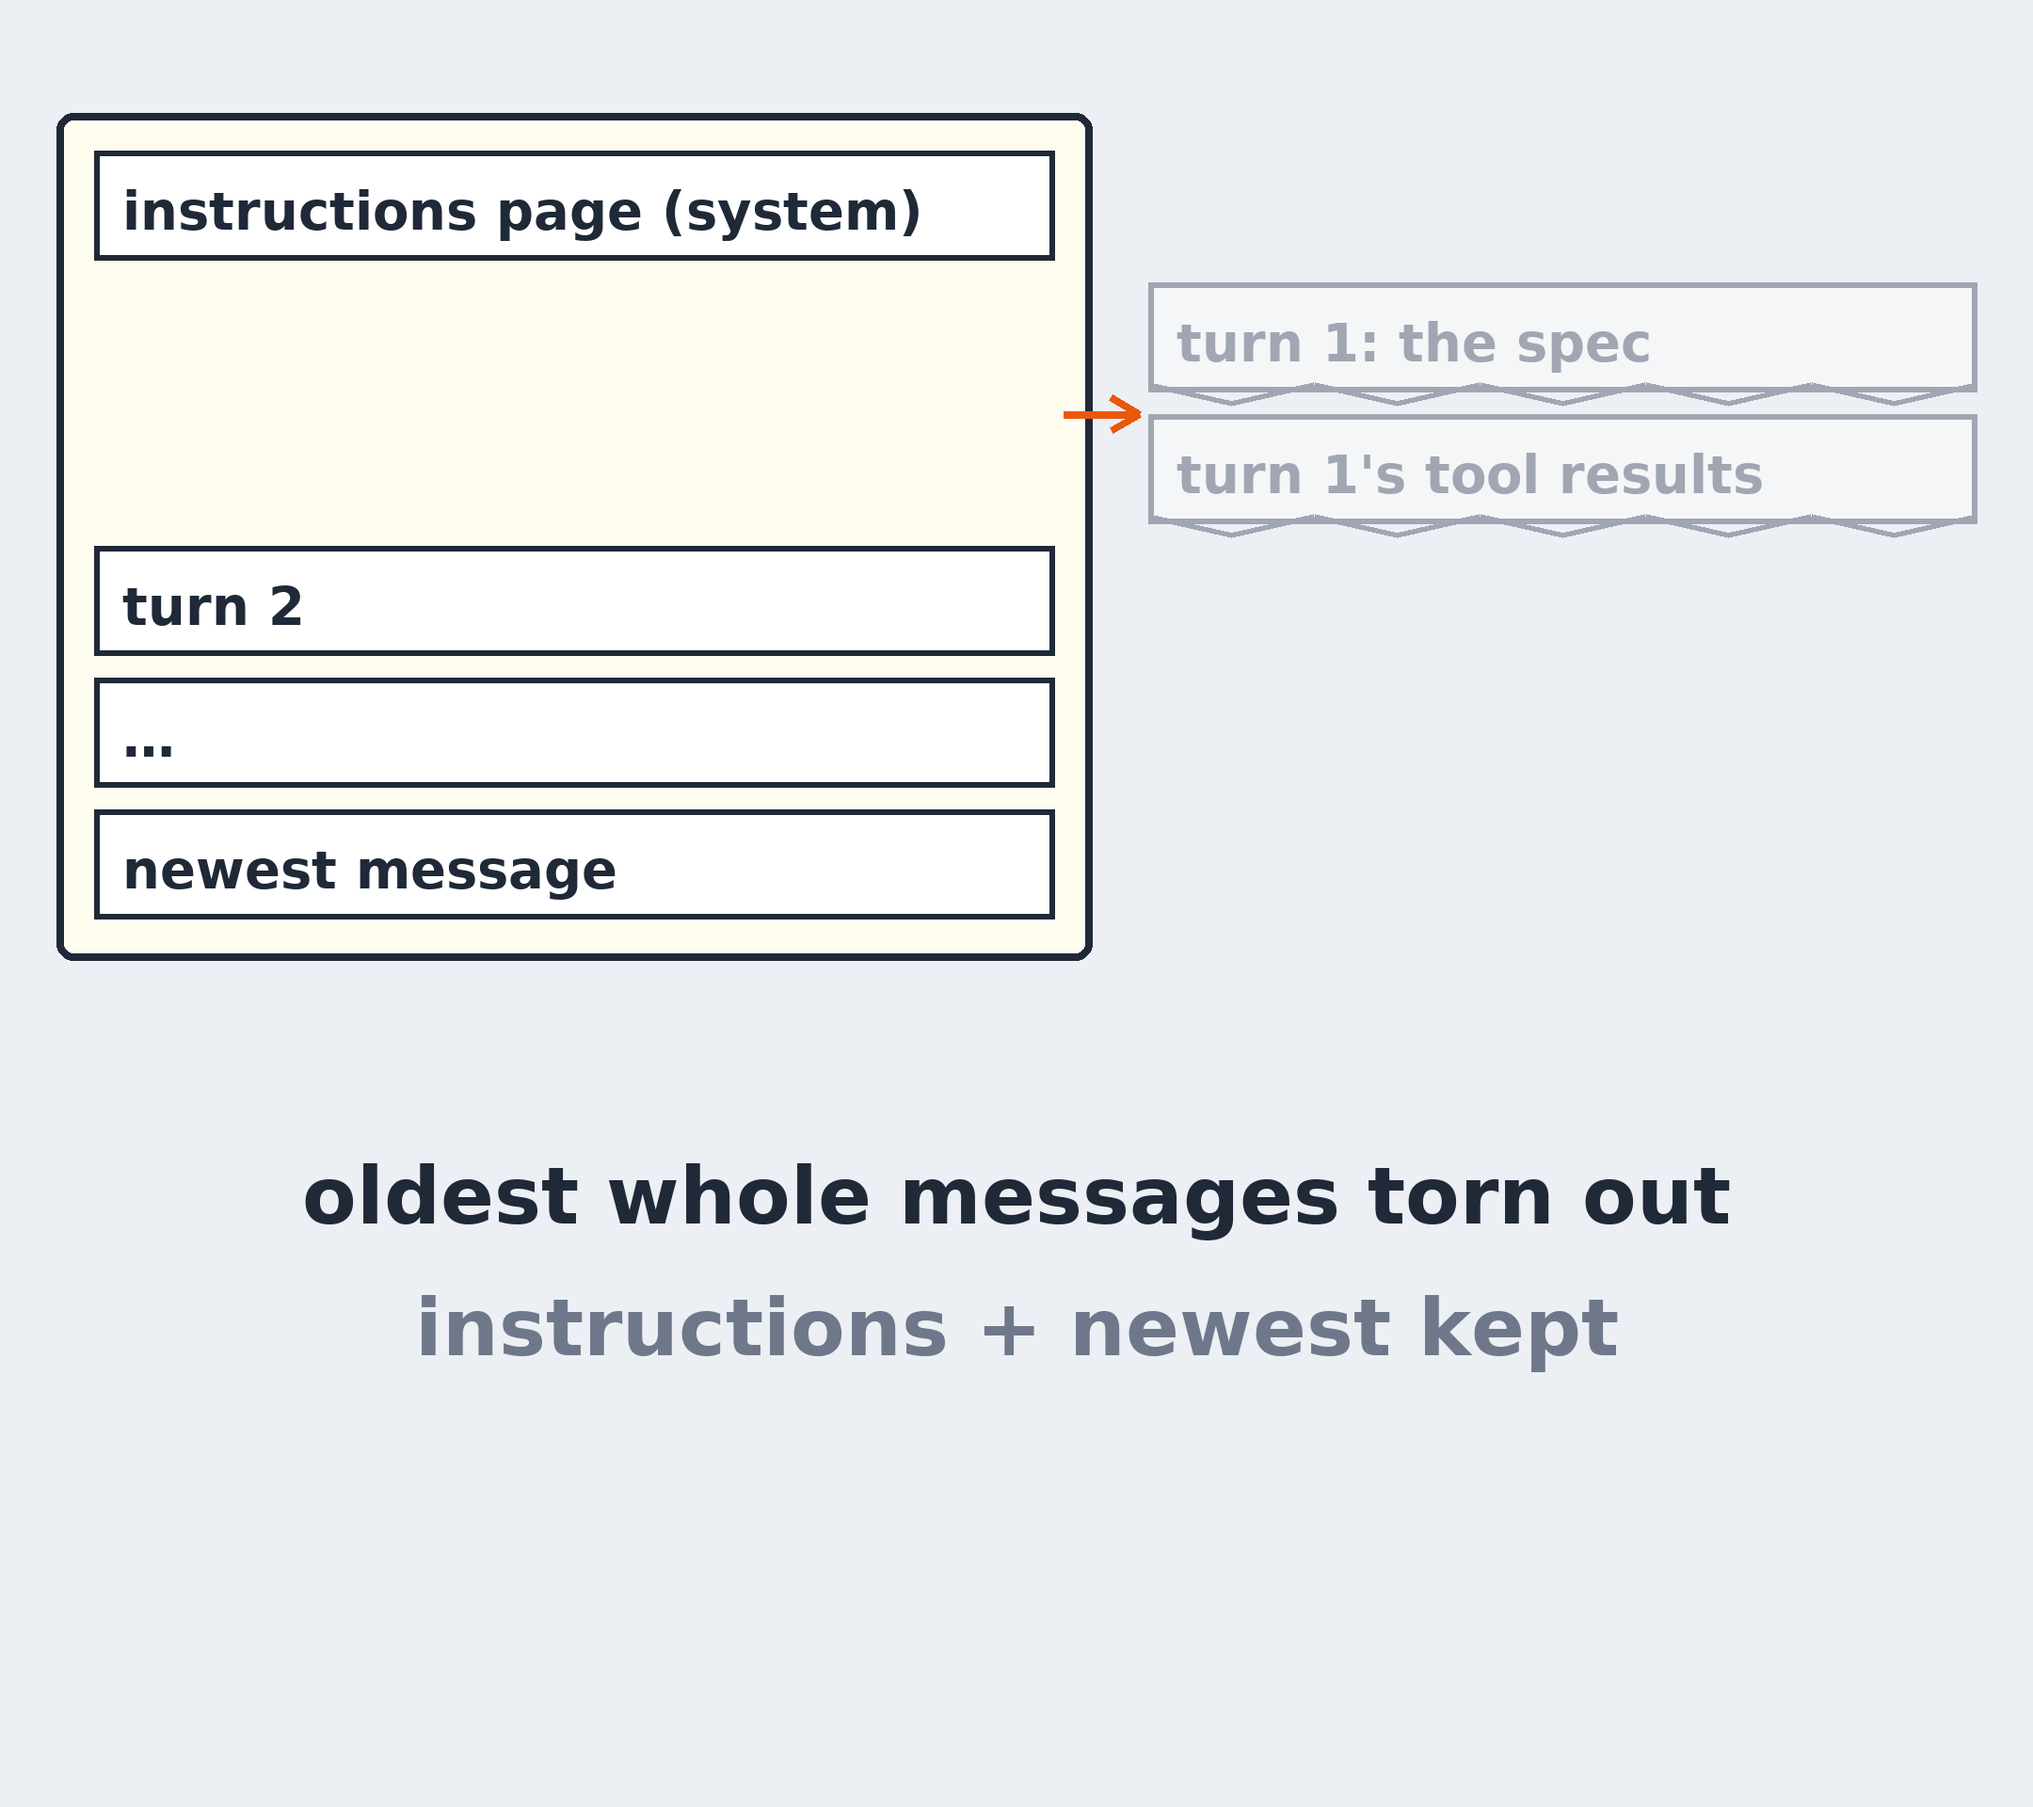
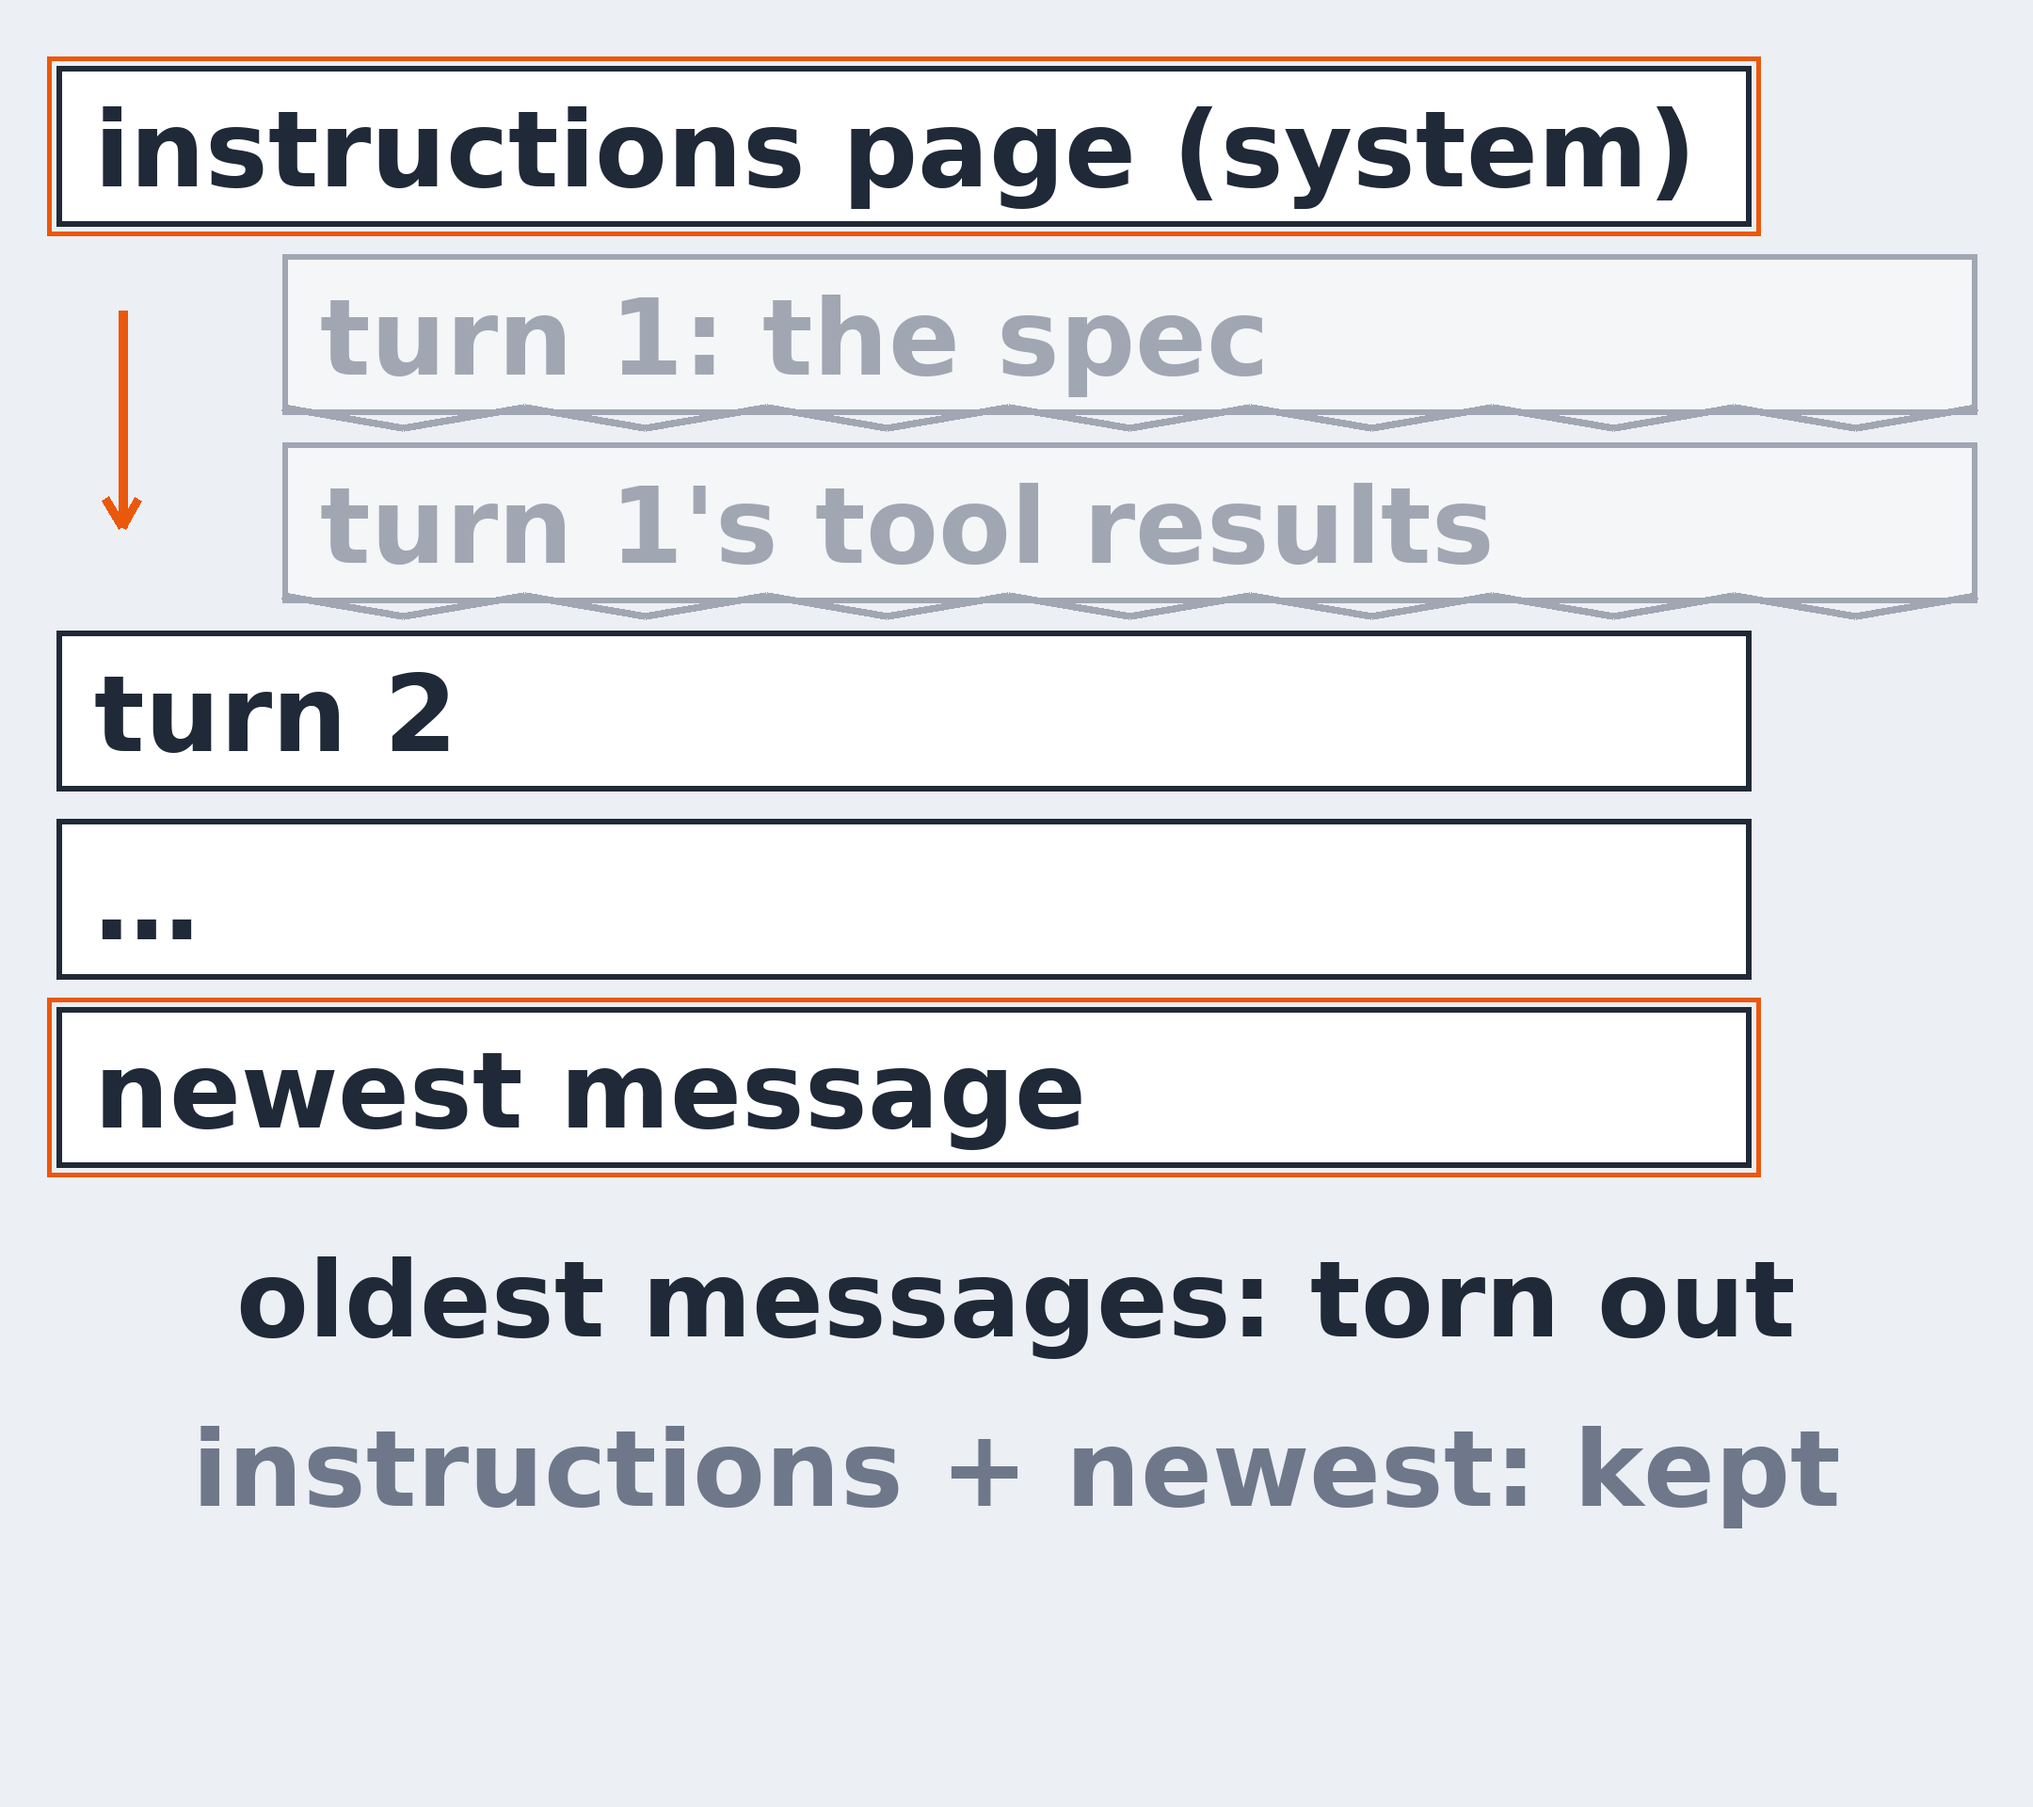
g17 cut 2 cards (WATCH-g17-c1): card-pin-res-1..4 (the pin counts built one spoken sentence at a time, last = card-pin-2's lines), short-tearout redrawn across the full Short panel (112 px labels, twice cut 1's), short-scoreboard (3 fixes · 30 chats, right parts per fix from results.json, met my rul
Claude-Session: https://claude.ai/code/session_01BKaTygt8SZ8KFbKC6u8tGA

diff --git a/video/draw_g17.py b/video/draw_g17.py
@@ -10,6 +10,8 @@ tools.jsonl) here, never typed; tests/test_draw_g17.py loads the files on its ow
   card-test-1..2       F9: the turn-20 test (no result numbers); right part + the rule
   card-32k-1..3        F10: the lab temp-0 chat; 5 sampled chats; tokens per turn
   card-pin-1..2        F12: the spec pinned on the instructions page; the counts
+  card-pin-res-1..4    F12 cut 2: the counts built one spoken sentence at a time (last = card-pin-2's lines)
+  short-tearout, short-scoreboard  the Short's S1 tear-out (cut 2: full panel, 112 px) and S4 scoreboard (cut 2)
   card-summary-1..3    F14: 8/8 summary vs pin; right parts; tokens per turn
   card-scoreboard-1..2 F15 (replacing): the five rows + "met by: none"; the two problems + the build counts
   card-penpal-recap    F16: the pen pal grey + the three checks
@@ -300,9 +302,15 @@ def card_32k():
 # --- pin (F12) -----------------------------------------------------------------------------------------------------
 def card_pin():
     a8, a16 = F['a_pin_8k'], F['a_pin_16k']
-    for step in (1, 2):
-        im, d = start(f'card-pin-{step}', 'Fix two: pin the spec')
-        g = step == 2
+    right = a8['right_total'] + a16['right_total']
+    res = [[f"8K: {a8['recall8_chats']} of 6 with 8/8"], [f"{a8['length_stops']} replies stopped short", '(6 chats)'],
+           [f"16K: {a16['recall8_chats']} of 6 with 8/8"], [f'right parts: {right} of 12']]
+    # cut 2 (WATCH-g17-c1 long fix 2): card-pin-res-1..4 build the counts one spoken sentence at a time; card-pin-2 is
+    # the whole card (kept for the tests and any earlier use)
+    for name, g, ls, cur in ([('card-pin-1', False, None, None), ('card-pin-2', True, sum(res, []), None)] +
+                             [(f'card-pin-res-{k}', True, sum(res[:k], []), len(sum(res[:k - 1], [])))
+                              for k in (1, 2, 3, 4)]):
+        im, d = start(name, 'Fix two: pin the spec')
         x, y = (160, 260) if g else (700, 260)
         d.rectangle([x, y, x + 1060, y + 640], fill=(DONEFILL if g else PAPER), outline=(DONE if g else INK), width=6)
         t(d, (x + 40, y + 90), 'system instructions', 60, fill=(DONE if g else INK), kind='tag')
@@ -311,13 +319,10 @@ def card_pin():
         d.ellipse([x + 520, y + 170, x + 560, y + 210], fill=(DONE if g else RED))
         t(d, (x + 160, y + 310), 'spec: BRK-17 · PETG', 54, fill=(DONE if g else INK), kind='tag')
         t(d, (x + 160, y + 410), '60 x 40 x 5 · 2 holes', 54, fill=(DONE if g else INK), kind='tag')
-        if step == 1:
+        if not g:
             lines(d, ['the spec, pinned on the instructions page'], y=1060)
         else:
-            right = a8['right_total'] + a16['right_total']
-            lines(d, [f"8K: {a8['recall8_chats']} of 6 with 8/8", f"{a8['length_stops']} replies stopped short",
-                      '(6 chats)', f"16K: {a16['recall8_chats']} of 6 with 8/8", f'right parts: {right} of 12'],
-                  x=1320, y=330, step=120, size=60)
+            lines(d, ls, x=1320, y=330, step=120, size=60, cur=cur)
         save(im)
 
 
@@ -399,34 +404,76 @@ def ov_sub():
     im.save(os.path.join(OUT, 'ov-sub.png'))
 
 
-def short_tearout():
-    """Short S1: the tear-out at the Short's view aspect (1.125; 2160 x 1920, shown at 1080 x 960): the notepad's
-    strips on the left, the two oldest torn out whole on the right, two lines. No numbers."""
-    _t2 = lambda d_, xy, s_, size, fill=INK, anchor='la': d_.text(xy, s_, font=d13.font(B, size), fill=fill, anchor=anchor)  # noqa: E731,E501  (its own 2160 x 1920 frame)
+SHAPES = {}
+
+
+def _short(name):
+    """A Short card (2160 x 1920, shown at the Short's 1080 x 960 view): its own frame, its texts recorded with size."""
+    _cur[0] = name
+    TEXTS[name], HIGHLIGHTS[name], SHAPES[name] = [], [], []
     im = Image.new('RGB', (2160, 1920), BG)
-    d = ImageDraw.Draw(im)
-    _cur[0] = 'short-tearout'
-    TEXTS['short-tearout'], HIGHLIGHTS['short-tearout'] = [], []
-    d.rounded_rectangle([60, 120, 1160, 1020], 18, fill=PAPER, outline=INK, width=8)
+    return im, ImageDraw.Draw(im)
+
+
+def _ts(d, xy, s_, size, fill=INK, anchor='la'):
+    f = d13.font(B, size)                    # not d13.text: its frame check is the 2560 x 1440 one
+    d.text(xy, s_, font=f, fill=fill, anchor=anchor)
+    bb = d.textbbox(xy, s_, font=f, anchor=anchor)
+    TEXTS[_cur[0]].append({'s': s_, 'bbox': bb, 'kind': 'tag', 'size': size})
+    if bb[0] < 60 or bb[1] < 60 or bb[2] > 2100 or bb[3] > 1860:
+        PROBLEMS.append(f'{_cur[0]} {s_!r}: outside the Short frame {bb}')
+    return bb
+
+
+def _box(d, b, fill, outline, width=6):
+    d.rectangle(b, fill=fill, outline=outline, width=width)
+    SHAPES[_cur[0]].append(b)
+
+
+def short_tearout():
+    """Short S1 (cut 2, WATCH-g17-c1 Short fix 2): the tear-out across the whole panel (2160 x 1920, shown at
+    1080 x 960), labels 112 px (twice cut 1's): six strips, the two oldest torn out whole (shifted right, grey, ragged
+    edge, "torn out"), the instructions page and the newest kept (outlined). No numbers."""
+    im, d = _short('short-tearout')
     for k, s_ in enumerate(STRIPS):
         torn = k in (1, 2)
-        x, y = (1220 if torn else 100), 160 + k * 140
-        d.rectangle([x, y, x + 880 if torn else x + 1020, y + 116], fill=(DONEFILL if torn else (255, 255, 255)),
-                    outline=(DONE if torn else INK), width=6)
+        y = 70 + k * 200
+        x0, x1 = (300, 2100) if torn else (60, 1860)
+        _box(d, [x0, y, x1, y + 170], (DONEFILL if torn else (255, 255, 255)), (DONE if torn else INK))
         if torn:
-            d.line([(x + j * 880 / 10, y + 116 + (12 if j % 2 else -8)) for j in range(11)], fill=DONE, width=6)
-        _t2(d, (x + 30, y + 84), s_, 56, fill=(DONE if torn else INK), anchor='ls')
-    arrow(d, (1130, 440), (1210, 440), ORANGE)
-    _t2(d, (1080, 1300), 'oldest whole messages torn out', 84, anchor='ms')
-    _t2(d, (1080, 1440), 'instructions + newest kept', 84, fill=GREY, anchor='ms')
+            d.line([(x0 + j * (x1 - x0) / 14, y + 170 + (14 if j % 2 else -8)) for j in range(15)], fill=DONE, width=8)
+        if k in (0, 5):
+            hl(d, [x0 - 10, y - 10, x1 + 10, y + 180], width=5)
+        _ts(d, (x0 + 40, y + 128), s_, 112, fill=(DONE if torn else INK), anchor='ls')
+    arrow(d, (130, 330), (130, 560), ORANGE, w=10)
+    _ts(d, (1080, 1420), 'oldest messages: torn out', 112, anchor='ms')
+    _ts(d, (1080, 1600), 'instructions + newest: kept', 112, fill=GREY, anchor='ms')
     os.makedirs(OUT, exist_ok=True)
     im.save(os.path.join(OUT, 'short-tearout.png'))
+
+
+def short_scoreboard():
+    """Short S4 (cut 2, WATCH-g17-c1 Short fix 1): the series line as the scoreboard: 3 fixes, the chat count, right
+    parts per fix (from results.json), "met my rule: none". No green, no tick."""
+    im, d = _short('short-scoreboard')
+    _ts(d, (100, 210), f"3 fixes · {D['n_chats']} chats", 128)
+    _ts(d, (100, 380), 'right parts, judged at turn 20', 96, fill=GREY)
+    rows = [f"32K: {F['b_ctx_32k']['right_total']} of 6",
+            f"pin: {F['a_pin_8k']['right_total'] + F['a_pin_16k']['right_total']} of 12",
+            f"summary: {F['c_summary_8k']['right_total'] + F['c_summary_16k']['right_total']} of 12"]
+    for k, r_ in enumerate(rows):
+        y = 540 + k * 250
+        _box(d, [80, y, 2080, y + 200], (255, 255, 255), DONE, 5)
+        _ts(d, (140, y + 140), r_, 112, anchor='ls')
+    _ts(d, (100, 1430), 'met my rule: none', 128)
+    os.makedirs(OUT, exist_ok=True)
+    im.save(os.path.join(OUT, 'short-scoreboard.png'))
 
 
 def build_all():
     card_penpal(); card_notepad(); card_tearout(); card_ranges(); card_test(); card_32k(); card_pin()
     card_summary(); card_scoreboard(); card_penpal_recap(); card_yourturn(); card_end(); ov_sub()
-    short_tearout()
+    short_tearout(); short_scoreboard()
 
 
 if __name__ == '__main__':

diff --git a/tests/test_draw_g17.py b/tests/test_draw_g17.py
@@ -56,6 +56,8 @@ def test_no_problems(mod):
 
 def test_44_columns_safe_area_and_7_lines(mod):
     for n, items in mod.TEXTS.items():
+        if n.startswith('short-'):        # the Short's own 2160 x 1920 frame: checked in the cut 2 tests
+            continue
         lines = [t for t in items if t['kind'] == 'line']
         assert len(lines) <= 7, (n, len(lines))
         for t in items:
@@ -186,3 +188,48 @@ def test_scoreboard_has_no_green_and_says_none(mod):
 
 def test_only_the_penpal_is_illustrated(mod):
     assert mod.ART == {'card-penpal-1', 'card-penpal-2', 'card-penpal-3', 'card-penpal-recap'}
+
+
+# --- cut 2 (WATCH-g17-c1) ------------------------------------------------------------------------------------------
+def test_pin_results_build_one_line_per_spoken_count(mod):
+    """Long fix 2: the pin counts card builds as each count is spoken; the last build says what card-pin-2 says."""
+    builds = ['card-pin-res-%d' % k for k in (1, 2, 3, 4)]
+    final = [t['s'] for t in mod.TEXTS['card-pin-2'] if t['kind'] == 'line']
+    prev = []
+    for n in builds:
+        assert os.path.exists(os.path.join(mod.OUT, n + '.png')), n
+        ls = [t['s'] for t in mod.TEXTS[n] if t['kind'] == 'line']
+        assert ls[:len(prev)] == prev and len(ls) > len(prev), (n, ls)
+        prev = ls
+    assert prev == final
+
+
+def test_short_tearout_fills_the_panel_with_big_labels(mod):
+    """Short fix 2: the tear-out at the panel's full width, labels at least twice cut 1's 56 px (2160 x 1920 frame)."""
+    from PIL import Image
+    im = Image.open(os.path.join(mod.OUT, 'short-tearout.png'))
+    assert im.size == (2160, 1920)
+    items = mod.TEXTS['short-tearout']
+    assert items and min(t['size'] for t in items) >= 112
+    assert min(t['bbox'][0] for t in items) >= 60 and max(t['bbox'][2] for t in items) <= 2100
+    for s in ('instructions', 'turn 1: the spec', 'newest'):
+        assert any(s in t['s'] for t in items), s
+    x0 = min(b[0] for b in mod.SHAPES['short-tearout'])
+    x1 = max(b[2] for b in mod.SHAPES['short-tearout'])
+    assert x1 - x0 >= 0.9 * 2160
+
+
+def test_short_scoreboard_says_none_from_results(mod, res):
+    """Short fix 1: the end card is the scoreboard: 3 fixes, 30 chats, none met the rule; numbers from results.json."""
+    from PIL import Image
+    im = Image.open(os.path.join(mod.OUT, 'short-scoreboard.png'))
+    assert im.size == (2160, 1920)
+    s = ' | '.join(t['s'] for t in mod.TEXTS['short-scoreboard'])
+    f = res['fix']
+    n_chats = sum(1 + len(f[k]['reps']) for k in ('a_pin_8k', 'a_pin_16k', 'b_ctx_32k', 'c_summary_8k', 'c_summary_16k'))
+    assert f'3 fixes · {n_chats} chats' in s and 'met my rule: none' in s
+    assert f"32K: {f['b_ctx_32k']['right_total']} of 6" in s
+    assert f"pin: {f['a_pin_8k']['right_total'] + f['a_pin_16k']['right_total']} of 12" in s
+    assert f"summary: {f['c_summary_8k']['right_total'] + f['c_summary_16k']['right_total']} of 12" in s
+    assert mod.GREEN_USED.get('short-scoreboard', 0) == 0
+    assert min(t['size'] for t in mod.TEXTS['short-scoreboard']) >= 96
